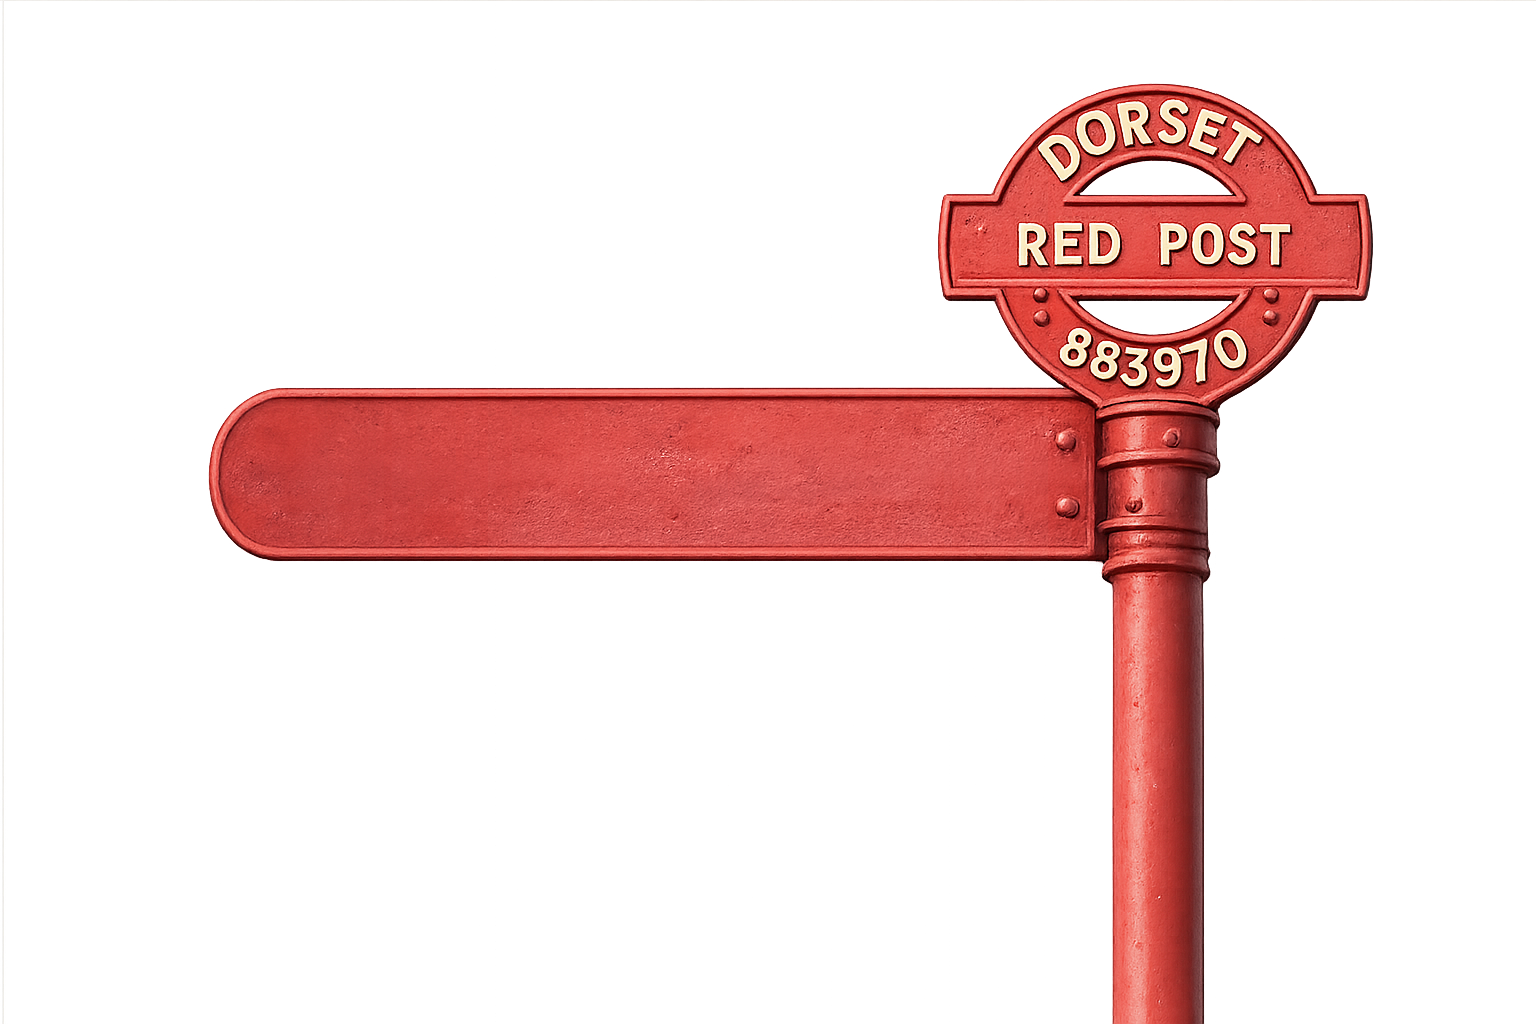
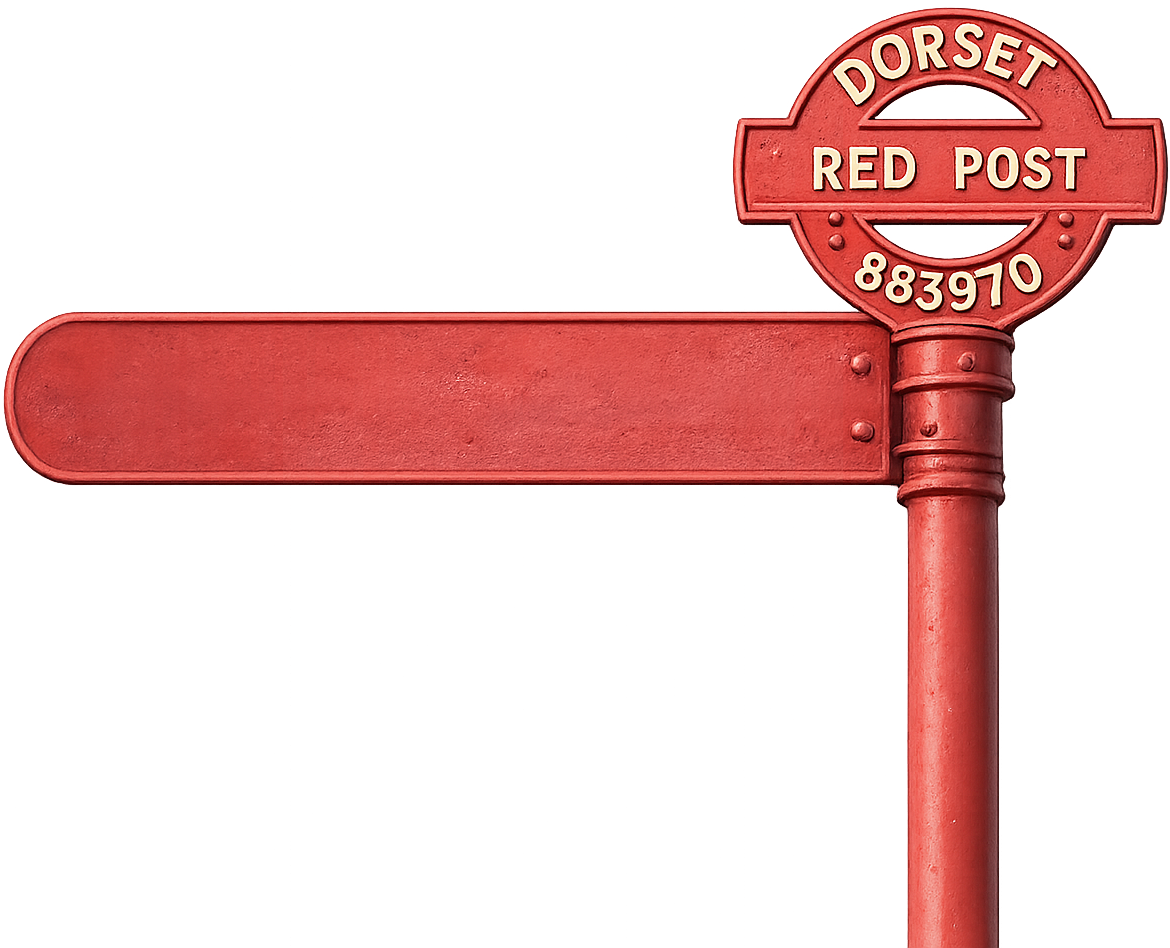
improving overlay

Changed region(s): [[0.0, 0.0, 1.0, 1.0]]

diff --git a/overlay-text.js b/overlay-text.js
@@ -217,10 +217,11 @@ const images = {
             sourceType: 'upload'
         },
         overlay: {
-            enabled: false,
+            enabled: true,
             src: 'assets/overlays/redpost.png',
-            position: { x: 600, y: 600 },
-            scale: 1
+            scale: 1,
+            padding: 0,           // only used if you want a margin from bottom-right
+            textOffset: { x: 0, y: 0 } // position of text relative to overlay's top-left
         },
         textBlock: {
             transform: {
@@ -332,9 +333,7 @@ function renderImage(imageConfig, userText) {
     const draw = () => {
         ctx.clearRect(0, 0, canvas.width, canvas.height);
 
-        // ----------------------
-        // 1⃣ Set canvas size first
-        // ----------------------
+        // Set canvas size first
         if (imageConfig.meta.sourceType === 'upload') {
             canvas.width = OUTPUT_WIDTH;
             canvas.height = OUTPUT_HEIGHT;
@@ -352,16 +351,12 @@ function renderImage(imageConfig, userText) {
             ctx.drawImage(baseImage, 0, 0);
         }
 
-        // ----------------------
-        // 2⃣ Overlay
-        // ----------------------
+        // Add the overlay
         if (imageConfig.overlay?.enabled) {
             drawOverlay(imageConfig);
         }
 
-        // ----------------------
-        // 3⃣ Text
-        // ----------------------
+        // Apply the text
         renderTextBlock(ctx, imageConfig.textBlock, userText);
     };
 
